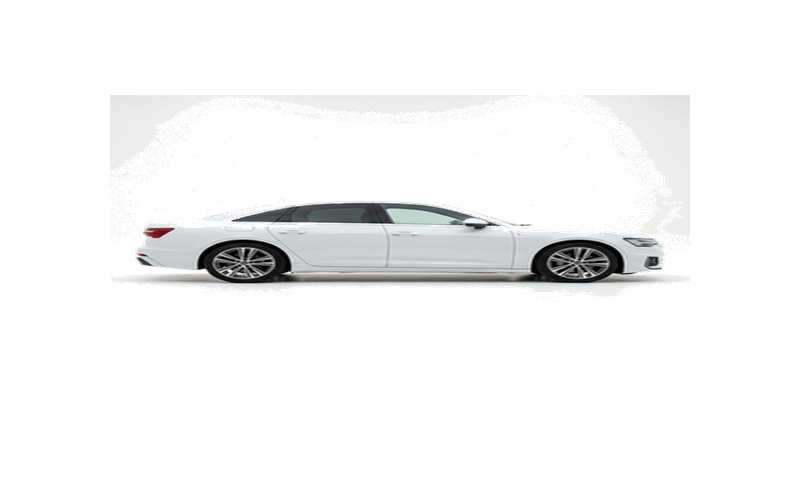
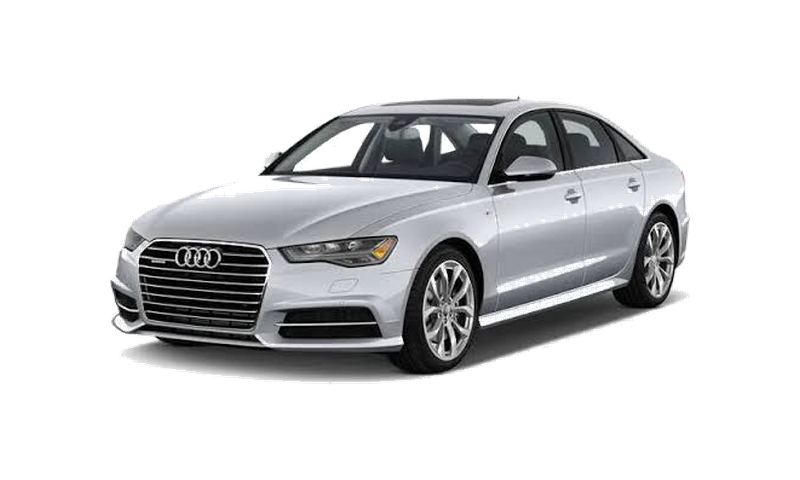
Update silver Audi A6 asset and fix HTML section tags

Changed region(s): [[0.125, 0.1875, 0.875, 0.8125], [0.7812, 0.1875, 0.875, 0.25], [0.125, 0.1875, 0.1875, 0.2188]]

diff --git a/luxury-chauffeur-services/index.html b/luxury-chauffeur-services/index.html
@@ -382,9 +382,12 @@
               style="font-family: var(--font-headings); font-size: 2.4rem; font-weight: 800; color: #0f172a; margin: 0 0 12px 0; letter-spacing: -0.5px;">
               Choose Your Executive Ride
             </h2>
-            <p style="color: #64748b; font-size: 1.05rem; max-width: 620px; margin: 0 auto; line-height: 1.6;">
+            <p style="color: #64748b; font-size: 1.05rem; max-width: 620px; margin: 0 auto 30px auto; line-height: 1.6;">
               From economy sedans to VIP luxury cruisers, select the perfect vehicle for your executive mobility needs.
-                  <!-- Fleet Cards Grid (Deconstructed Luxury Vehicles) -->
+            </p>
+          </div>
+
+          <!-- Fleet Cards Grid (Deconstructed Luxury Vehicles) -->
           <div class="fleet-catalog-grid-lux" style="grid-template-columns: repeat(auto-fit, minmax(240px, 1fr)); gap: 20px;">
 
             <!-- 1. AUDI A6 -->
